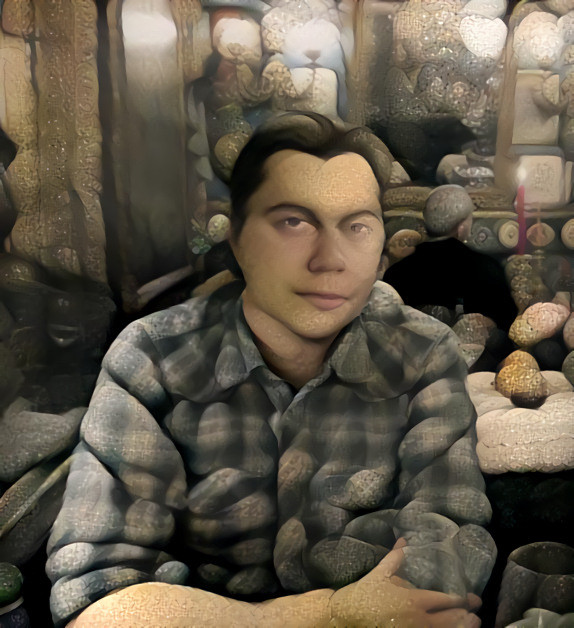
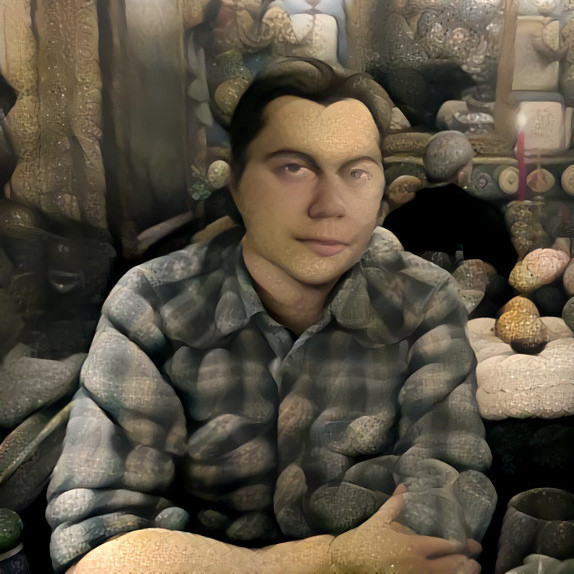
Fix the profile picture styles
Make it square, so that we get a proper circle of it.

Add the height and width parameters to the img tag. The final size might be different on some clients, but it doesn't matter much. The css will override it if needed.

Make it just a bit larger. Small enough change that it wont make the header any larger.

diff --git a/src/Header.js b/src/Header.js
@@ -4,7 +4,9 @@ export function Header(props){
     return (
         <header className="Header">
           <div className="HeaderContent">
-            <img src={process.env.PUBLIC_URL + "profile_image.jpg"} className="ProfileImage" alt="profile image" />
+            <img src={process.env.PUBLIC_URL + "profile_image.jpg"}
+                 width="96" height="96"
+                 className="ProfileImage" alt="profile image" />
             <div className="Profile">
               <h1>Aleksi Wikman</h1>
               <h2>Software Engineer</h2>

diff --git a/src/App.css b/src/App.css
@@ -1,5 +1,6 @@
 .ProfileImage {
-    height: 5em;
+    height: 6em;
+    width: 6em;
     margin: 1em;
     border-radius: 50%;
     box-shadow: 0 0 2px 0
